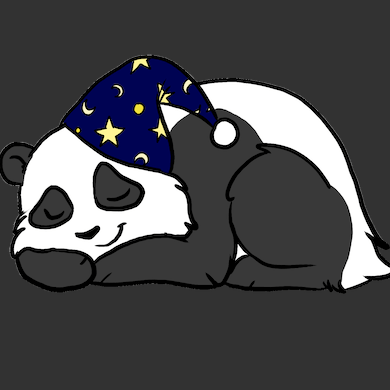
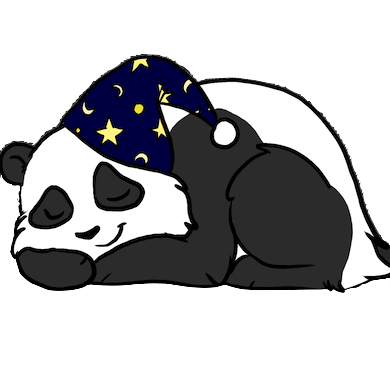
refactor: a lot of updates
- new favicon
- removed unused deps
- add id to shopify queries
- rewrote initialstate generator for all mattresses

diff --git a/src/components/Brands/list/generateInitialState.js b/src/components/Brands/list/generateInitialState.js
@@ -1,3 +1,5 @@
+// import { navigate } from "gatsby";
+
 const queryString = require("query-string");
 
 const GenerateInitialState = (location, data) => {
@@ -7,8 +9,8 @@ const GenerateInitialState = (location, data) => {
   });
   const initialState = {
     currentMattresses: [],
-    beforeFilterMattresses: [],
-    currentHeader: {},
+    beforeFilterMattresses: data.all.mattresses,
+    currentHeader: data.all.header,
     brandCheckBoxes: [
       { urlParam: "sealy", checked: false, displayName: "Sealy" },
       { urlParam: "beautyrest", checked: false, displayName: "Beautyrest" },
@@ -68,110 +70,134 @@ const GenerateInitialState = (location, data) => {
       serta: data.serta.header,
       stearns: data.stearns.header,
       nectar: data.nectar.header,
-      "posh-and-lavish": data.posh.header,
+      "posh-and-lavish": data["posh-and-lavish"].header,
       all: data.all.header,
     },
     locationPath: location.pathname,
   };
-
-  if (Object.entries(query).length === 0) {
+  const filterComfortQuery = (arr) => {
+    const comfortIndex = ["1", "2", "3", "4", "5"];
+    return comfortIndex.filter((index) => arr.includes(index)).map(Number);
+  };
+  const filterBrandQuery = (arr) => {
+    const brands = [
+      "sealy",
+      "beautyrest",
+      " tempurpedic",
+      "serta",
+      "stearns",
+      "nectar",
+      "posh-and-lavish",
+    ];
+    return brands.filter((brand) => arr.includes(brand));
+  };
+  const allMattresses = () => {
     initialState.currentHeader = data.all.header;
     initialState.currentMattresses = data.all.mattresses;
-    initialState.beforeFilterMattresses = data.all.mattresses;
-    if (typeof window !== `undefined`) {
-      window.history.replaceState({}, "", `${location.pathname}`);
-    }
-    return initialState;
-  }
-  if (query.brand === undefined && query.comfort === undefined) {
-    initialState.currentHeader = data.all.header;
-    initialState.currentMattresses = data.all.mattresses;
-    initialState.beforeFilterMattresses = data.all.mattresses;
-    if (typeof window !== `undefined`) {
-      window.history.replaceState({}, "", `${location.pathname}`);
-    }
-    return initialState;
-  }
-  if (query.brand === null && query.comfort === null) {
-    initialState.currentHeader = data.all.header;
-    initialState.currentMattresses = data.all.mattresses;
-    initialState.beforeFilterMattresses = data.all.mattresses;
-    if (typeof window !== `undefined`) {
-      window.history.replaceState({}, "", `${location.pathname}`);
-    }
+    // if (typeof window !== `undefined`) {
+    //   window.history.replaceState({}, "", `${location.pathname}`);
+    // }
+  };
+  let filteredComfortQuery = null;
+  let filteredBrandQuery = null;
+  if (
+    Object.entries(query).length === 0 ||
+    (query.brand === undefined && query.comfort === undefined) ||
+    (query.brand === null && query.comfort === null) ||
+    (query.brand === undefined && query.comfort === null) ||
+    (query.brand === null && query.comfort === undefined)
+  ) {
+    allMattresses();
     return initialState;
   }
   if (query.brand) {
-    // TODO: Need to filter bad queries!!!!!!
-    //   const filterBrandQuery = Object.keys(data).filter((a) =>
-    //   query.brand.includes(a),
-    // );
-    // console.log(filterBrandQuery);
-    // TODO
-    let filteredMattresses = [];
-    if (typeof query.brand === "string") {
-      if (data[query.brand] !== undefined) {
-        filteredMattresses = [
-          ...filteredMattresses,
-          ...data[query.brand].mattresses,
-        ];
-        initialState.selectedBrandCheckBoxes.push(query.brand);
-        initialState.brandCheckBoxes[
-          data[query.brand].checkBoxIndex
-        ].checked = true;
-      } else {
-        filteredMattresses = data.all.mattresses;
-      }
+    filteredBrandQuery = filterBrandQuery(query.brand);
+    // TODO Delete this line once done
+    if (filteredBrandQuery.length === 0) allMattresses();
+    // !!!!!!!!!!!!!!!!!!!!!TODO !!!!!!!!!!!!!!!!!
+    if (filteredBrandQuery.length === 1) {
+      initialState.currentMattresses = data[filteredBrandQuery[0]].mattresses;
+      initialState.currentHeader = data[filteredBrandQuery[0]].header;
+      initialState.selectedBrandCheckBoxes.push(filteredBrandQuery[0]);
+      initialState.brandCheckBoxes[
+        data[filteredBrandQuery[0]].checkBoxIndex
+      ].checked = true;
     } else {
-      query.brand.forEach((elm) => {
-        if (data[elm] !== undefined) {
-          filteredMattresses = [...filteredMattresses, ...data[elm].mattresses];
-          initialState.selectedBrandCheckBoxes.push(elm);
-          initialState.brandCheckBoxes[data[elm].checkBoxIndex].checked = true;
-        }
+      initialState.currentMattresses = data.all.mattresses.filter((matt) =>
+        filteredBrandQuery.includes(matt.brand.urlName),
+      );
+      initialState.currentHeader = data.all.header;
+      filteredBrandQuery.forEach((q) => {
+        initialState.brandCheckBoxes[data[q].checkBoxIndex].checked = true;
       });
     }
-    initialState.currentHeader =
-      initialState.selectedBrandCheckBoxes.length === 1
-        ? data[initialState.selectedBrandCheckBoxes[0]].header
-        : data.all.header;
-    initialState.currentMattresses = filteredMattresses;
-    initialState.beforeFilterMattresses = filteredMattresses;
   }
+
   if (query.comfort) {
-    const comfortNums = [];
-    let filteredMatts =
-      initialState.currentMattresses.length === 0
-        ? data.all.mattresses
-        : initialState.currentMattresses;
-    if (typeof query.comfort !== "string") {
-      query.comfort.forEach((elm) => {
-        if (1 + elm !== NaN) {
-          if (Number(elm) < 5 || Number(elm) === 0) {
-            initialState.comfortCheckBoxes[elm].checked = true;
-            comfortNums.push(Number(elm));
-          }
-        }
+    filteredComfortQuery = filterComfortQuery(query.comfort);
+    if (filteredComfortQuery.length === 0) allMattresses();
+    if (filteredComfortQuery.length > 0) {
+      const filteredMatts =
+        initialState.currentMattresses.length === 0
+          ? data.all.mattresses
+          : initialState.currentMattresses;
+      initialState.selectedComfortCheckBoxes = filteredComfortQuery;
+      filteredComfortQuery.forEach((elm) => {
+        initialState.comfortCheckBoxes[elm].checked = true;
       });
+      initialState.currentMattresses = filteredMatts.filter((a) =>
+        filteredComfortQuery.includes(a.firmness),
+      );
     }
-    if (Number(query.comfort) < 5 || Number(query.comfort) === 0) {
-      initialState.comfortCheckBoxes[Number(query.comfort)].checked = true;
-      comfortNums.push(Number(query.comfort));
+
+    if (filteredBrandQuery !== null && filteredBrandQuery !== null) {
+      queryString.stringify(
+        { brand: filteredBrandQuery, comfort: filteredBrandQuery },
+        { arrayFormat: "comma" },
+      );
+      if (typeof window !== `undefined`) {
+        window.history.replaceState(
+          {},
+          "",
+          `${location.locationPath}?${queryString.stringify(
+            { brand: filteredBrandQuery, comfort: filteredBrandQuery },
+            { arrayFormat: "comma" },
+          )}`,
+        );
+      }
+    } else if (filteredBrandQuery === null && filteredBrandQuery !== null) {
+      if (typeof window !== `undefined`) {
+        window.history.replaceState(
+          {},
+          "",
+          `${location.locationPath}?${queryString.stringify(
+            { comfort: filteredBrandQuery },
+            { arrayFormat: "comma" },
+          )}`,
+        );
+      }
+    } else if (filteredBrandQuery !== null && filteredBrandQuery === null) {
+      if (typeof window !== `undefined`) {
+        window.history.replaceState(
+          {},
+          "",
+          `${location.locationPath}?${queryString.stringify(
+            { brand: filteredBrandQuery },
+            { arrayFormat: "comma" },
+          )}`,
+        );
+      }
     }
-    filteredMatts =
-      comfortNums.length === 0 && initialState.currentMattresses.length === 0
-        ? [...data.all.mattresses]
-        : [
-            ...filteredMatts.filter(
-              (a) => comfortNums.includes(a.firmness) === true,
-            ),
-          ];
-    initialState.currentMattresses = filteredMatts;
-    initialState.beforeFilterMattresses = filteredMatts;
-    initialState.currentHeader =
-      Object.entries(initialState.currentHeader).length === 0
-        ? data.all.header
-        : initialState.currentHeader;
+    // console.log(
+    //   queryString.stringify(
+    //     { comfort: filteredComfortQuery },
+    //     { arrayFormat: "comma" },
+    //   ),
+    // );
+    // `${state.locationPath}?${queryString.stringify(
+    //   { brand: newSelectedBrand, comfort: state.selectedComfortCheckBoxes },
+    //   { arrayFormat: "comma" },
+    // )}`,
   }
   return initialState;
 };

diff --git a/gatsby-node.js b/gatsby-node.js
@@ -44,18 +44,21 @@ exports.createPages = async ({ actions, graphql }) => {
         nodes {
           handle
           shopifyId
+          id
         }
       }
       sheets: allShopifyProduct(filter: { productType: { eq: "Sheets" } }) {
         nodes {
           handle
           shopifyId
+          id
         }
       }
       pillow: allShopifyProduct(filter: { productType: { eq: "Pillow" } }) {
         nodes {
           handle
           shopifyId
+          id
         }
       }
       allDatoCmsAdjustableBase {

diff --git a/src/components/Brands/list/filterSortPanel.jsx b/src/components/Brands/list/filterSortPanel.jsx
@@ -69,7 +69,7 @@ const FilterSortPanel = ({ dispatch, comfortCheckBoxes, brandCheckBoxes }) => {
               <label htmlFor={checkBox.displayName} key={checkBox.displayName}>
                 <Checkbox
                   id={checkBox.displayName}
-                  checked={checked[checkBox.id].checked}
+                  checked={checkBox.checked}
                   firmness={checkBox.firmness}
                   onChange={(e) =>
                     toggleCheck(e, checkBox.id, checkBox.firmness)

diff --git a/src/components/shared/ProductList/FilterSortPanel/CheckBox.jsx b/src/components/shared/ProductList/FilterSortPanel/CheckBox.jsx
@@ -47,8 +47,8 @@ const StyledCheckbox = styled.div`
   }
 `;
 
-const Checkbox = ({ checked, onChange, ...props }) => (
-  <CheckboxContainer onChange={onChange}>
+const Checkbox = ({ checked, ...props }) => (
+  <CheckboxContainer>
     <HiddenCheckbox checked={checked} {...props} />
     <StyledCheckbox checked={checked}>
       <Icon viewBox="0 0 24 24">

diff --git a/src/pages/brands/list.js b/src/pages/brands/list.js
@@ -53,7 +53,7 @@ const List = ({ location, data }) => {
       header: data.nectarHeader.headerLink,
       checkBoxIndex: 5,
     },
-    posh: {
+    "posh-and-lavish": {
       mattresses: [...data.poshMattress.nodes],
       header: data.poshHeader.headerLink,
       checkBoxIndex: 6,

diff --git a/src/components/Brands/list/MattressList.jsx b/src/components/Brands/list/MattressList.jsx
@@ -28,7 +28,7 @@ const MattressList = ({ location, data }) => {
   };
   return (
     <MattListWrapper>
-      {/* {console.log("MMMMMMMMMMMM", state)} */}
+      {console.log("MMMMMMMMMMMM", state, data)}
       <NewBread Brands>
         <BreadCrumbs
           next="Brands"

diff --git a/src/fragments/AccessoryFragment.js b/src/fragments/AccessoryFragment.js
@@ -9,6 +9,7 @@ export const mattressParts = graphql`
     productType
     tags
     vendor
+    id
     availableForSale
     priceRange {
       minVariantPrice {
